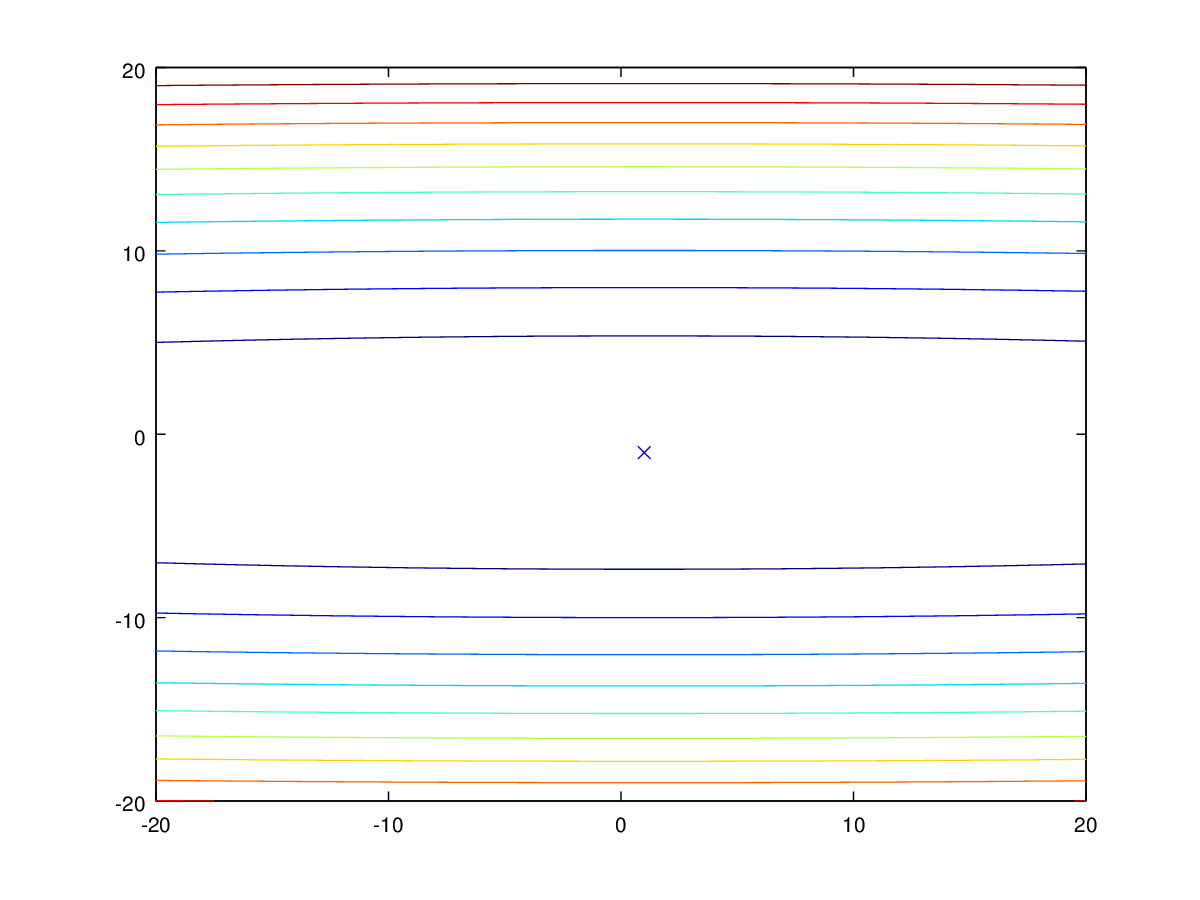
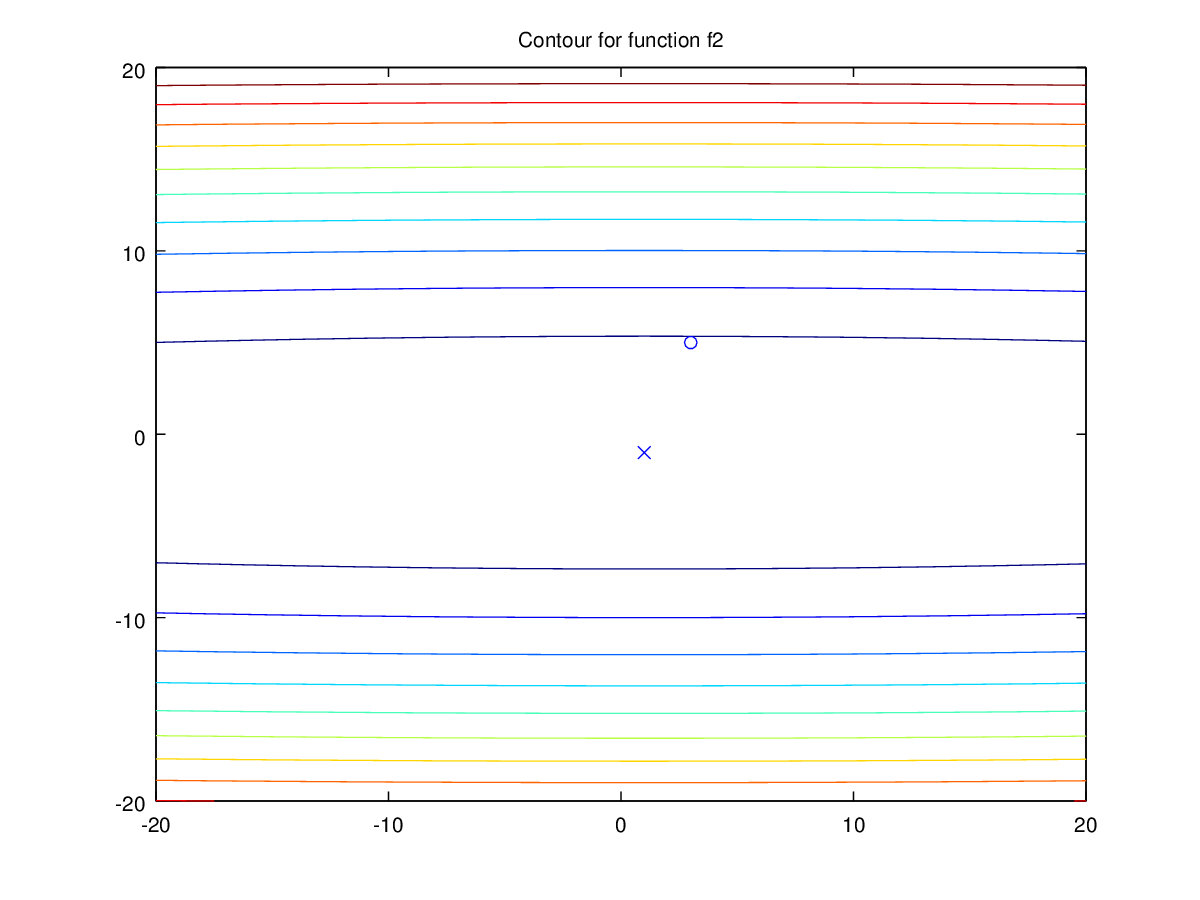
Adicionado resultados de experimentos

diff --git a/matlab/plotContour.m b/matlab/plotContour.m
@@ -1,4 +1,4 @@
-function plotContour(func, xdom, ydom, xstar)
+function plotContour(func, xdom, ydom, init, xstar)
 
 	[X,Y] = meshgrid(xdom,ydom);
 	[l, c] = size(X);
@@ -11,9 +11,12 @@ function plotContour(func, xdom, ydom, xstar)
 	end
 
 	%mesh(X,Y,Z);
+	f = figure('visible', 'on');
 	contour(X, Y, Z);
 	hold on;
+	plot(init(1), init(2), 'bo')
 	plot(xstar(1), xstar(2), 'x');
-	saveas(1, ['images/' func '_contour.png']);
-	close();
+	title(['Contour for function ' func])
+	saveas(f, ['images/' func '_contour.png'])
+	%%close(f);
 end

diff --git a/matlab/main.m b/matlab/main.m
@@ -1,11 +1,11 @@
 addpath('funcs/');
 
 global K_MAX;
-K_MAX = 2000;
+K_MAX = 100;
 
 prec = 1e-3;
 sc = 1e-3;
-xi = [1.1 1.1]';
+xi = [3 5]';
 
 f=9;
 
@@ -22,5 +22,6 @@ for f=1:12
 	[xk3, k] = quasiNewton(func, prec, sc, xi);
 	printf('quasi newton result: \nxk = (%.4f, %.4f)\tk = %f\n', xk3(1), xk3(2), k);
 
-	plotContour(func, -20:0.1:20, -20:0.1:20, [xk1 xk2 xk3])
+	plotContour(func, -20:20, -20:20, xi, [xk1 xk2 xk3])
+	fflush(stdout);
 end
